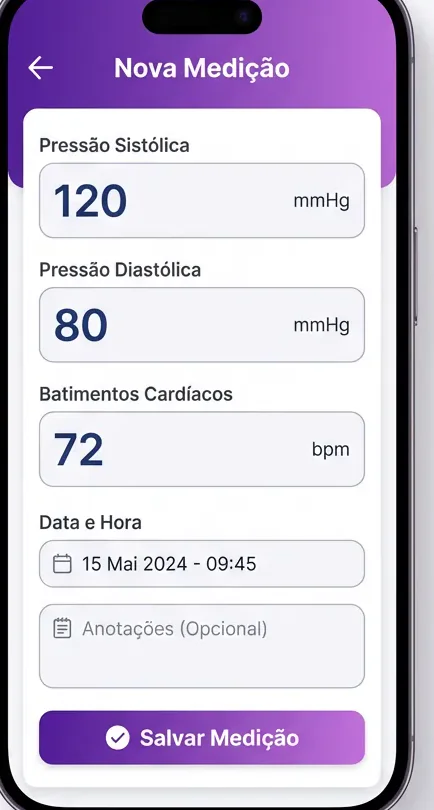
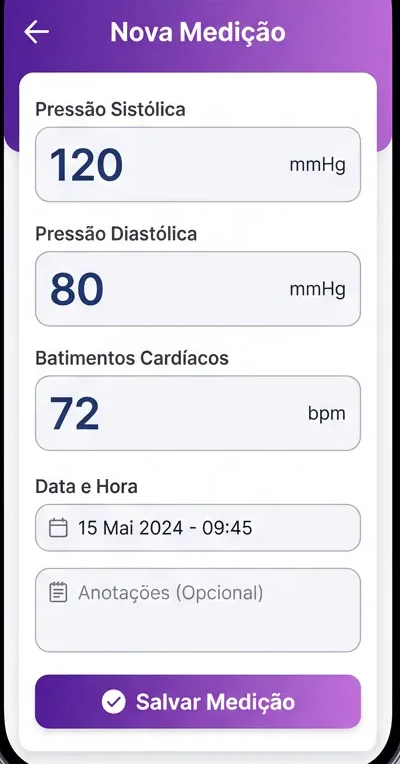
Fix: link do playstore

diff --git a/index.html b/index.html
@@ -57,7 +57,7 @@
             <li class="nav-item"><a class="nav-link smooth-anchor" href="#como-funciona" style="cursor: pointer;">Como funciona</a></li>
             <li class="nav-item"><a class="nav-link smooth-anchor" href="#app" style="cursor: pointer;">Visual do app</a></li>
             <li class="nav-item"><a class="nav-link smooth-anchor" href="#depoimentos" style="cursor: pointer;">Depoimentos</a></li>
-            <li class="nav-item ms-lg-3"><a class="btn btn-sm btn-nav btn-primary-tech ripple smooth-anchor" href="#cta-final" style="cursor: pointer;">Baixar App</a></li>
+            <li class="nav-item ms-lg-3"><a class="btn btn-sm btn-nav btn-primary-tech ripple" href="https://play.google.com/store/apps/details?id=br.codemobilesolutions.bpmonitor&hl=pt" target="_blank" rel="noopener noreferrer" style="cursor: pointer;">Baixar App</a></li>
           </ul>
         </div>
       </div>
@@ -76,8 +76,8 @@
             <h1 class="hero-title" data-aos="fade-up" data-aos-delay="100">Controle sua pressão arterial com inteligência</h1>
             <p class="hero-subtitle" data-aos="fade-up" data-aos-delay="180">O BP Monitor ajuda você a monitorar, registrar e acompanhar sua saúde cardiovascular em tempo real.</p>
             <div class="hero-cta d-flex flex-wrap gap-3" data-aos="fade-up" data-aos-delay="260">
-              <a href="#cta-final" class="btn btn-primary-tech btn-lg ripple">Baixar App</a>
-              <a href="#beneficios" class="btn btn-outline-tech btn-lg ripple">Saiba Mais</a>
+              <a href="https://play.google.com/store/apps/details?id=br.codemobilesolutions.bpmonitor&hl=pt" target="_blank" rel="noopener noreferrer" class="btn btn-primary-tech btn-lg ripple">Baixar App</a>
+              <a href="https://play.google.com/store/apps/details?id=br.codemobilesolutions.bpmonitor&hl=pt" target="_blank" rel="noopener noreferrer" class="btn btn-outline-tech btn-lg ripple">Saiba Mais</a>
             </div>
             <div class="hero-metrics row g-3 mt-4" data-aos="fade-up" data-aos-delay="340">
               <div class="col-6 col-sm-4">
@@ -430,7 +430,7 @@
           <h2>Comece hoje mesmo a cuidar melhor da sua saúde.</h2>
           <p>Baixe o BP Monitor e transforme monitoramento em clareza, prevenção e controle inteligente.</p>
           <div class="d-flex flex-wrap justify-content-center gap-3 mt-4">
-            <a href="#" class="btn btn-primary-tech btn-xl ripple">Baixar App</a>
+            <a href="https://play.google.com/store/apps/details?id=br.codemobilesolutions.bpmonitor&hl=pt" target="_blank" rel="noopener noreferrer" class="btn btn-primary-tech btn-xl ripple">Baixar App</a>
             <a href="#hero" class="btn btn-outline-tech btn-xl ripple">Voltar ao topo</a>
           </div>
         </div>